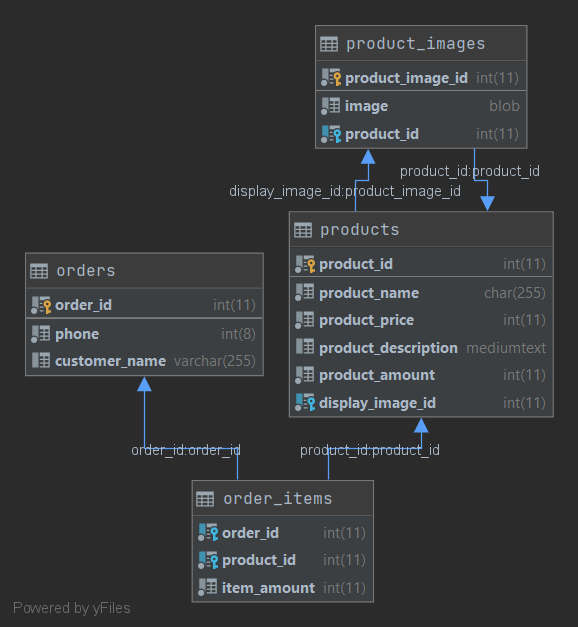
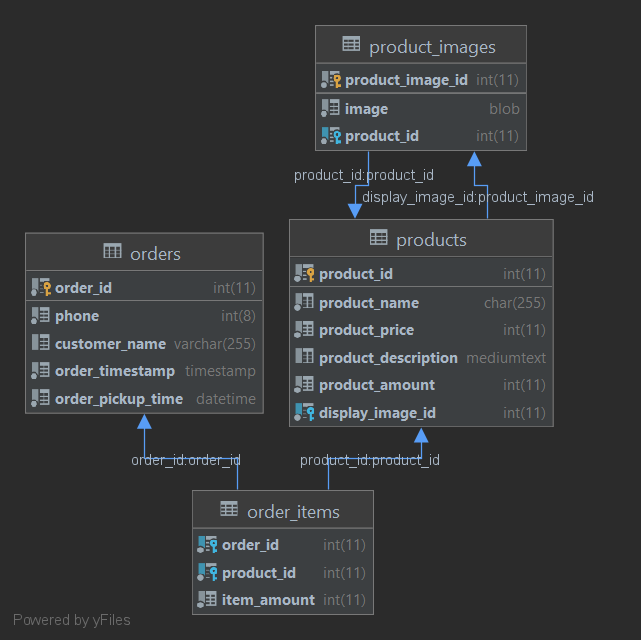
Added the basics of the page and changed the data model
Added the basic pages and structure, as well as changing the data model.

Changed region(s): [[0.0311, 0.0303, 0.9654, 0.7576], [0.2803, 0.7879, 0.654, 0.9697], [0.0311, 0.9394, 0.1869, 1.0]]

diff --git a/style/main.css b/style/main.css
@@ -1,0 +1,78 @@
+/*
+Made w/ ♥ by Artx999
+If you steal this, you owe me a blowie ;)
+ */
+:root {
+    --not-quite-black: #23272a;
+    --nav-height: 5em;
+}
+*, *::before, *::after {
+    box-sizing: inherit;
+}
+html, body {
+    font-family: "IBM Plex Mono";
+    margin: 0;
+    box-sizing: border-box;
+}
+.view-width {
+    width: 80vw;
+}
+.flex-box {
+    display: flex;
+    justify-content: center;
+    align-items: center;
+}
+.flex-box-space-between {
+    display: flex;
+    justify-content: space-between;
+    align-items: center;
+}
+nav {
+    background-color: var(--not-quite-black);
+    font-family: "Square Boi";
+    height: var(--nav-height);
+}
+nav #logo {
+    height: calc(var(--nav-height) - 1em);
+}
+nav ul {
+    display: grid;
+    grid-template-columns: repeat(3, auto);
+    grid-gap: 1em;
+    list-style-type: none;
+    font-size: 2.5rem;
+    padding: 0;
+}
+nav ul li {
+}
+nav ul li a {
+    text-decoration: none;
+    color: white;
+}
+main {
+    min-height: calc(100vh - var(--nav-height));
+}
+header {
+    height: calc(100vh - var(--nav-height));
+    background-image: url("../documentation/datashop-header.jpg");
+    background-size: cover;
+    background-position: center;
+    background-color: black;
+}
+footer {
+    background-color: var(--not-quite-black);
+    height: 10em;
+    font-family: "Square Boi";
+    color: white;
+}
+footer a {
+    text-decoration: none;
+    color: white;
+}
+footer #footer-name {
+    font-size: 4rem;
+}
+footer ul {
+    list-style-type: none;
+    padding: 0;
+}

diff --git a/script/main.js b/script/main.js
@@ -1,0 +1,4 @@
+// Gives the document a title
+function giveTitle(name) {
+    document.getElementsByTagName("title")[0].innerHTML = name;
+}

diff --git a/structure/nav.php b/structure/nav.php
@@ -1,7 +1,10 @@
-<nav>
-    <ul>
-        <li><a href="<?php print $root . "index.php" ?>">Hjem</a></li>
-        <li><a href="<?php print $root . "lift-pass.php" ?>">Heiskort</a></li>
-        <li><a href="<?php print $root . "cabins.php" ?>">Hytter</a></li>
-    </ul>
+<nav class="flex-box">
+    <div class="view-width flex-box-space-between">
+        <a href="http://localhost/Datashop"><svg id="logo" xmlns="http://www.w3.org/2000/svg" viewBox="0 0 139.08 169.19"><defs><style>.cls-1{fill:#278ea6;}.cls-2{fill:#183141;}.cls-3{fill:#30c8d9;}.cls-4{fill:#f18322;}</style></defs><g id="Main-logo"><rect class="cls-1" x="64.08" y="69.13" width="12.27" height="12.27"/><rect class="cls-2" x="27.82" y="88.89" width="12.27" height="12.27"/><rect class="cls-3" x="100.34" y="78.6" width="12.27" height="12.27"/><path class="cls-4" d="M274.89,298.81H247.07V437.89h27.82V378.64h-8.78V348.8H296v29.84h-8.79v59.25h24v-79h-8.78V329.05H332.2v29.84h-8.78v79h48.95l-11.23-11.23-13.73-13.73V368.35h-8.79V338.51h29.84v29.84h-8.78v39.51h0l26.47,26.47V298.81H359.68V268.7H274.89Zm12.27,0V281h60.25v17.84Z" transform="translate(-247.07 -268.7)"/></g></svg></a>
+        <ul>
+            <li><a href="<?php print $root ?>catalog.php">Katalog</a></li>
+            <li><a href="<?php print $root ?>orders.php">Ordreoversikt</a></li>
+            <li><a href="<?php print $root ?>cart.php"><i class="uil uil-shopping-cart"></i></a></li>
+        </ul>
+    </div>
 </nav>

diff --git a/structure/footer.php b/structure/footer.php
@@ -1,0 +1,12 @@
+<footer class="flex-box">
+    <div class="view-width flex-box-space-between">
+        <a id="footer-name" href="http://localhost/Datashop">Datashop</a>
+        <div>
+            <h1>Nyttige lenker:</h1>
+            <ul>
+                <li><a href="<?php print $root ?>contact.php">Kontakt oss</a></li>
+                <li><a href="<?php print $root ?>formats.php">Formater</a></li>
+            </ul>
+        </div>
+    </div>
+</footer>

diff --git a/structure/head.php b/structure/head.php
@@ -3,7 +3,7 @@
 <head>
     <meta charset="UTF-8">
     <title></title>
-    <link rel="stylesheet" type="text/css" href="<?php echo $root ?>style.css">
+    <link rel="stylesheet" type="text/css" href="<?php print $root ?>style/main.css">
     <link rel="stylesheet" href="https://unicons.iconscout.com/release/v3.0.6/css/line.css">
-    <script src="<?php echo $root ?>script.js"></script>
+    <script src="<?php print $root ?>script/main.js"></script>
 </head>

diff --git a/orders.php b/orders.php
@@ -1,12 +1,11 @@
 <?php
 $root = "";
 require "structure/head.php";
-print "<script>giveTitle('Hjem')</script>";
+print "<script>giveTitle('Ordeoversikt')</script>";
 require "structure/nav.php";
 ?>
 <main>
-<header>
-</header>
+
 </main>
 <?php
 require "structure/footer.php"

diff --git a/contact.php b/contact.php
@@ -1,12 +1,11 @@
 <?php
 $root = "";
 require "structure/head.php";
-print "<script>giveTitle('Hjem')</script>";
+print "<script>giveTitle('Kontakt oss')</script>";
 require "structure/nav.php";
 ?>
 <main>
-<header>
-</header>
+
 </main>
 <?php
 require "structure/footer.php"

diff --git a/cart.php b/cart.php
@@ -1,12 +1,11 @@
 <?php
 $root = "";
 require "structure/head.php";
-print "<script>giveTitle('Hjem')</script>";
+print "<script>giveTitle('Handlevogn')</script>";
 require "structure/nav.php";
 ?>
 <main>
-<header>
-</header>
+
 </main>
 <?php
 require "structure/footer.php"

diff --git a/formats.php b/formats.php
@@ -1,12 +1,11 @@
 <?php
 $root = "";
 require "structure/head.php";
-print "<script>giveTitle('Hjem')</script>";
+print "<script>giveTitle('Formater')</script>";
 require "structure/nav.php";
 ?>
 <main>
-<header>
-</header>
+
 </main>
 <?php
 require "structure/footer.php"

diff --git a/catalog.php b/catalog.php
@@ -1,12 +1,11 @@
 <?php
 $root = "";
 require "structure/head.php";
-print "<script>giveTitle('Hjem')</script>";
+print "<script>giveTitle('Katalog')</script>";
 require "structure/nav.php";
 ?>
 <main>
-<header>
-</header>
+
 </main>
 <?php
 require "structure/footer.php"
